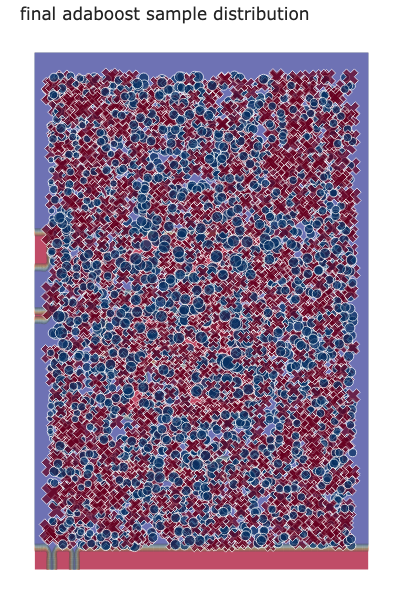
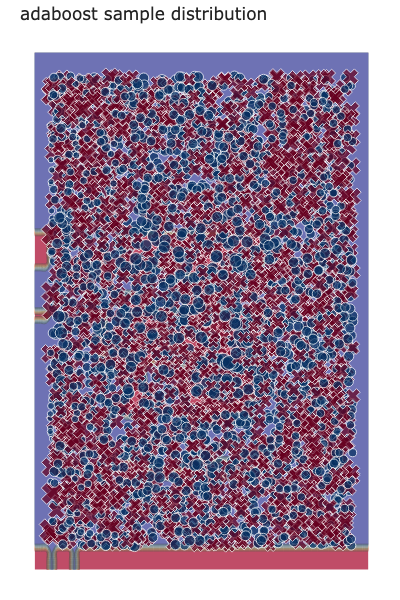
.

Changed region(s): [[0.03, 0.0, 0.78, 0.06]]

diff --git a/adaboost_scenario.py b/adaboost_scenario.py
@@ -25,8 +25,11 @@ def generate_data(n: int, noise_ratio: float) -> Tuple[np.ndarray, np.ndarray]:
 
 
 def fit_and_evaluate_adaboost(noise, n_learners=250, train_size=5000, test_size=500):
-    train_X, train_y = generate_data(train_size, noise)
-    test_X, test_y = generate_data(test_size, noise)
+    """
+    Train AdaBoost on one noisy dataset and evaluate misclassification error
+    as a function of the number of weak learners, using the same train/test split.
+    """
+    (train_X, train_y), (test_X, test_y) = generate_data(train_size, noise), generate_data(test_size, noise)
 
     # Question 1: Train- and test errors
     model = AdaBoost(DecisionStump, n_learners).fit(train_X, train_y)
@@ -42,7 +45,7 @@ def fit_and_evaluate_adaboost(noise, n_learners=250, train_size=5000, test_size=
     fig1 = go.Figure(
         data=[
             go.Scatter(x=list(range(1, n_learners + 1)), y=train_error, name="train err", mode="lines"),
-            go.Scatter(x=list(range(1, n_learners + 1)), y=test_error,  name="test err",  mode="lines")
+            go.Scatter(x=list(range(1, n_learners + 1)), y=test_error, name="test err", mode="lines")
         ],
         layout=go.Layout(
             width=600, height=400,
@@ -52,7 +55,7 @@ def fit_and_evaluate_adaboost(noise, n_learners=250, train_size=5000, test_size=
             margin=dict(l=40, r=40, t=60, b=40)
         )
     )
-    fig1.write_image(os.path.join(OUTPUT_DIR, f"adaboost_{noise}.png"))
+    fig1.write_image(os.path.join(OUTPUT_DIR, f"adaboost_____{noise}.png"))
 
     # Question 2: decision surfaces
     T = [5, 50, 100, 250]
@@ -60,15 +63,24 @@ def fit_and_evaluate_adaboost(noise, n_learners=250, train_size=5000, test_size=
     for t in T:
         subplot_titles.append(rf"$\text{{{t} classifiers}}$")
 
-    lims = (np.array([np.r_[train_X, test_X].min(axis=0),
-                      np.r_[train_X, test_X].max(axis=0)]).T + np.array([-.1, .1]))
+    lims = (
+        np.array([np.r_[train_X, test_X].min(axis=0),
+                  np.r_[train_X, test_X].max(axis=0)])
+        .T + np.array([-.1, .1])
+    )
     fig2 = make_subplots(rows=1, cols=4, subplot_titles=subplot_titles)
     for i, t in enumerate(T):
         fig2.add_traces(
             [
-                decision_surface(lambda X: model.partial_predict(X, t), lims[0], lims[1], density=60, showscale=False),
-                go.Scatter(x=test_X[:, 0], y=test_X[:, 1], mode="markers", showlegend=False,
-                           marker=dict(color=test_y, symbol=np.where(test_y == 1, "circle", "x")))
+                decision_surface(
+                    lambda X: model.partial_predict(X, t),
+                    lims[0], lims[1],
+                    density=60, showscale=False
+                ),
+                go.Scatter(
+                    x=test_X[:, 0], y=test_X[:, 1], mode="markers", showlegend=False,
+                    marker=dict(color=test_y, symbol=np.where(test_y == 1, "circle", "x"))
+                )
             ],
             rows=1, cols=i + 1
         )
@@ -80,16 +92,22 @@ def fit_and_evaluate_adaboost(noise, n_learners=250, train_size=5000, test_size=
     best_t = np.argmin(test_error) + 1
     fig3 = go.Figure(
         [
-            decision_surface(lambda X: model.partial_predict(X, best_t), lims[0], lims[1], density=60, showscale=False),
-            go.Scatter(x=test_X[:, 0], y=test_X[:, 1], mode="markers", showlegend=False,
-                       marker=dict(color=test_y, symbol=np.where(test_y == 1, "circle", "x")))
+            decision_surface(
+                lambda X: model.partial_predict(X, best_t),
+                lims[0], lims[1],
+                density=60, showscale=False
+            ),
+            go.Scatter(
+                x=test_X[:, 0], y=test_X[:, 1], mode="markers", showlegend=False,
+                marker=dict(color=test_y, symbol=np.where(test_y == 1, "circle", "x"))
+            )
         ],
         layout=go.Layout(
             width=400, height=400,
             xaxis=dict(visible=False), yaxis=dict(visible=False),
             title=(
                 f"best performing ensemble<br>"
-                f"size: {best_t}, accuracy: {1 - round(test_error[best_t - 1], 2)}"
+                f"T: {best_t}, accuracy: {1 - round(test_error[best_t - 1], 2)}"
             ),
             margin=dict(l=20, r=20, t=40, b=20)
         )
@@ -101,13 +119,15 @@ def fit_and_evaluate_adaboost(noise, n_learners=250, train_size=5000, test_size=
     fig4 = go.Figure(
         [
             decision_surface(model.predict, lims[0], lims[1], density=60, showscale=False),
-            go.Scatter(x=train_X[:, 0], y=train_X[:, 1], mode="markers", showlegend=False,
-                       marker=dict(size=D, color=train_y, symbol=np.where(train_y == 1, "circle", "x")))
+            go.Scatter(
+                x=train_X[:, 0], y=train_X[:, 1], mode="markers", showlegend=False,
+                marker=dict(size=D, color=train_y, symbol=np.where(train_y == 1, "circle", "x"))
+            )
         ],
         layout=go.Layout(
             width=400, height=600,
             xaxis=dict(visible=False), yaxis=dict(visible=False),
-            title="final adaboost sample distribution",
+            title="adaboost sample distribution",
             margin=dict(l=20, r=20, t=40, b=20)
         )
     )
@@ -116,5 +136,5 @@ def fit_and_evaluate_adaboost(noise, n_learners=250, train_size=5000, test_size=
 
 if __name__ == '__main__':
     np.random.seed(0)
-    fit_and_evaluate_adaboost(0)
-    fit_and_evaluate_adaboost(0.4)
+    fit_and_evaluate_adaboost(noise=0)
+    fit_and_evaluate_adaboost(noise=0.4)
